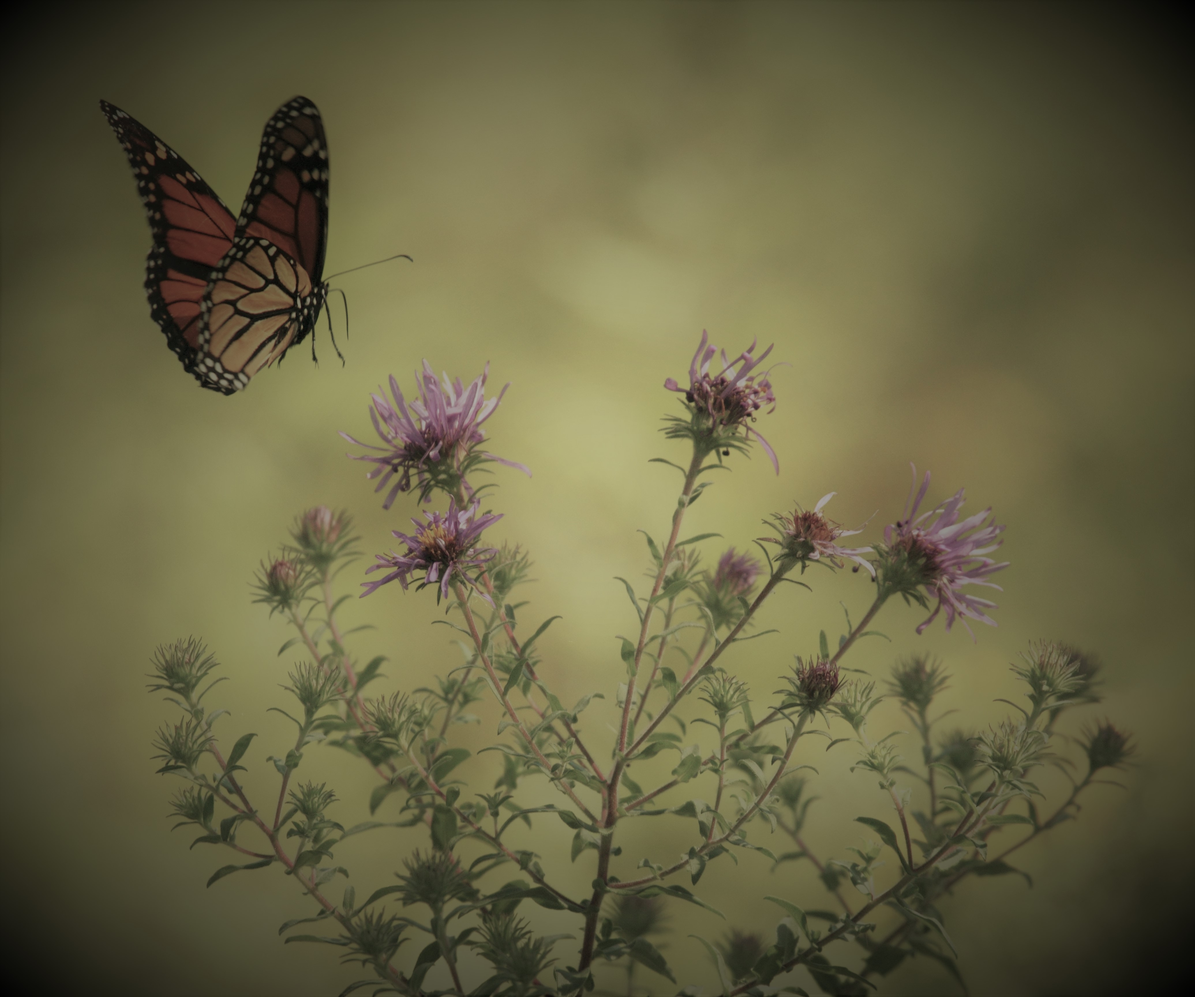
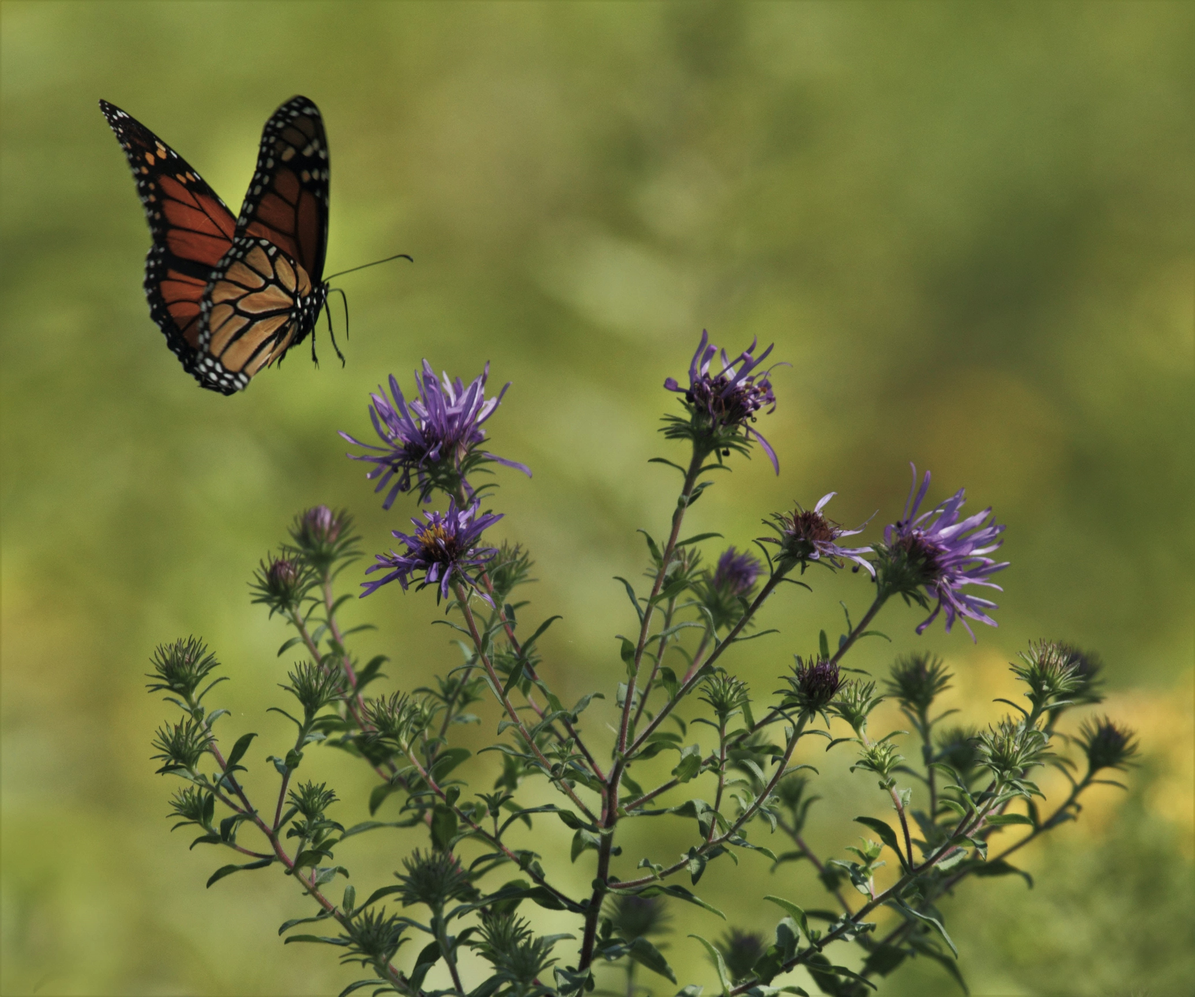
Save new hero image with reduced brightness for increased clarity of text

diff --git a/assets/css/style.css b/assets/css/style.css
@@ -31,7 +31,7 @@ body {
 }
 
 #background-image {
-    background: url("https://github.com/Tom1358/butterflies_of_britain/blob/master/assets/images/butterfly_hero.jpg?raw=true");
+    background: url("/assets/images/butterfly_hero.jpg");
     background-size: cover;
     height: 100vh;
     width: 100%;
